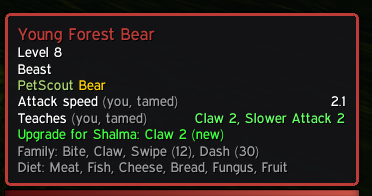
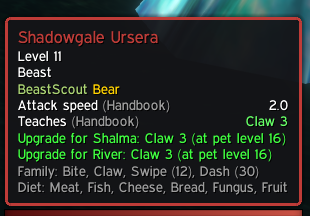
Screenshot: upgrade lines for every pet

diff --git a/README.md b/README.md
@@ -17,7 +17,7 @@ The extra lines only show up for hunters. No other addon is needed. It works on 
 
 <p>
   <img src="docs/screenshots/tooltip-tamed.png" alt="A wild Ornery Galestrider's tooltip: attack speed 1.3 and Faster Attack 5, both from your own tame">
-  <img src="docs/screenshots/tooltip-upgrade.png" alt="A Young Forest Bear's tooltip with the line: Upgrade for Shalma: Claw 2 (new)">
+  <img src="docs/screenshots/tooltip-upgrade.png" alt="A Shadowgale Ursera tooltip with an upgrade line for each pet: Claw 3 for Shalma and for River, at pet level 16">
 </p>
 
 Hovering a beast shows its pet attack speed, what it teaches and where each value came from (left), and whether your current pet could use any of it (right).
